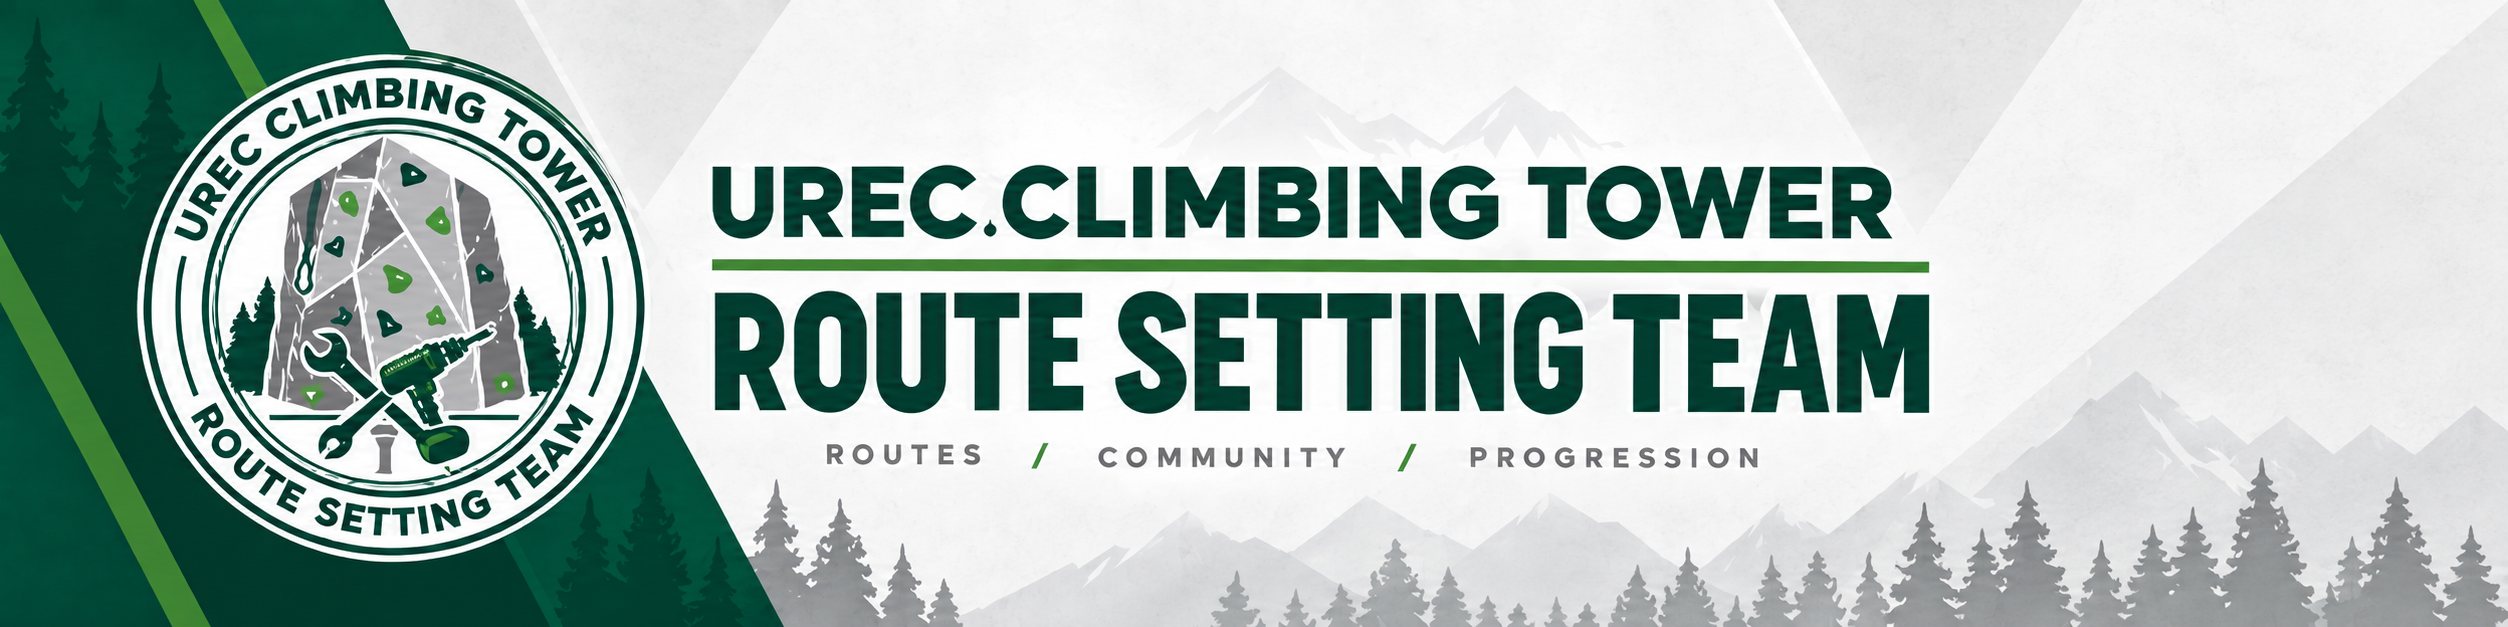
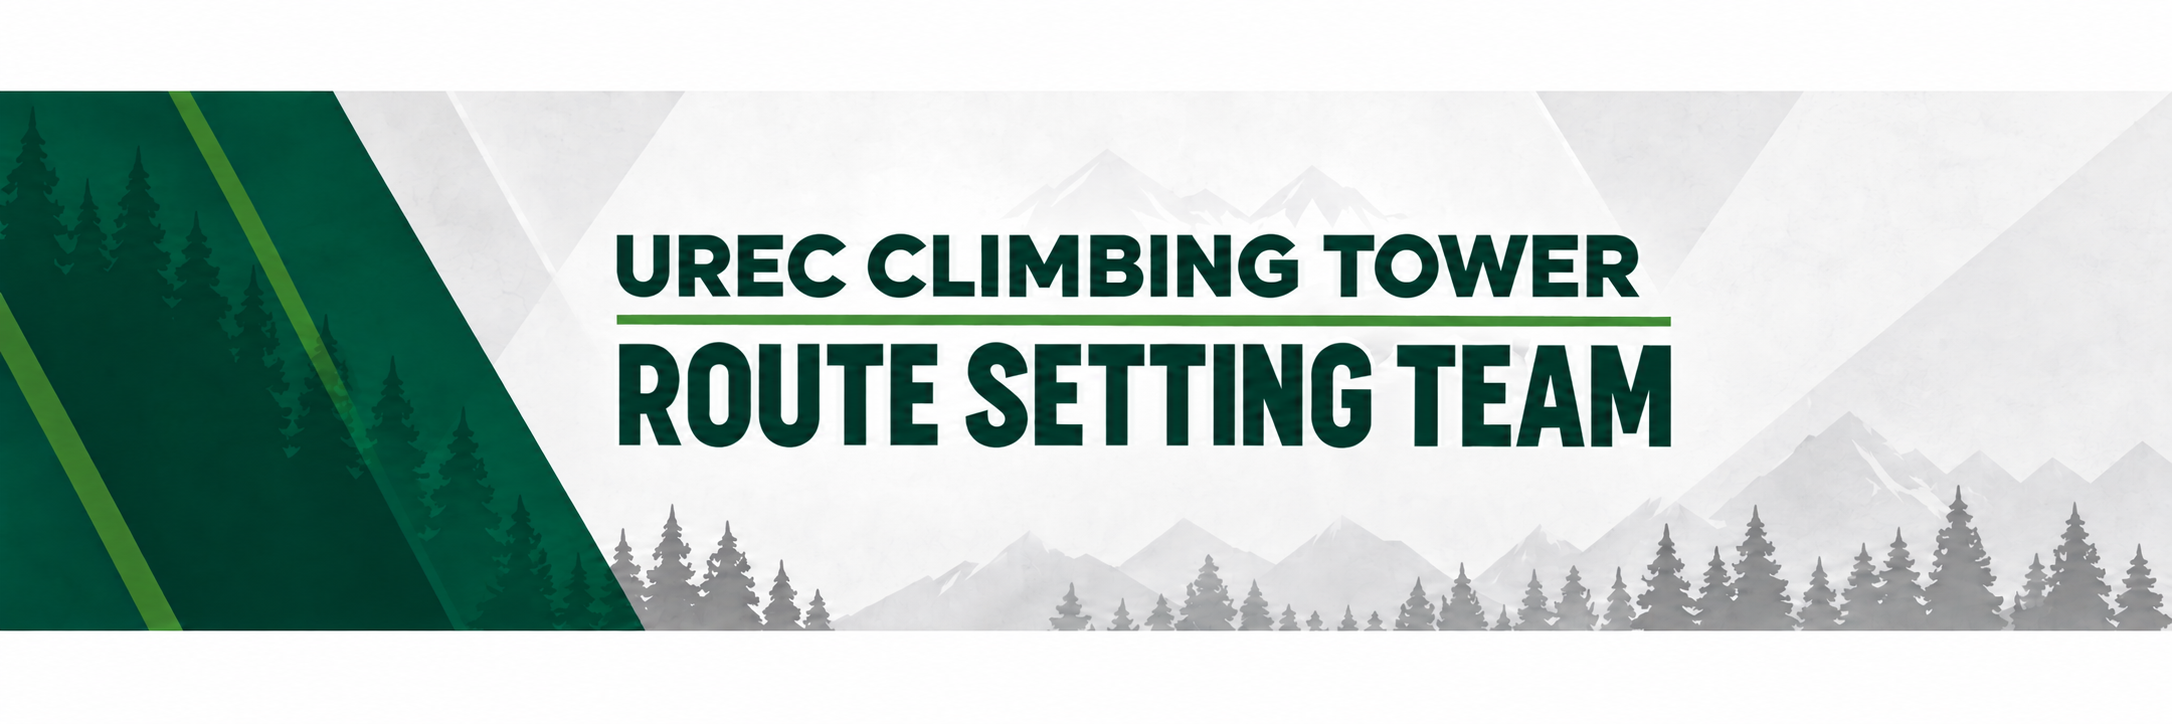
Rename UREC to Climbing Tower and update assets
Bump version to 1.0.3 and update UI/experience content. Replace two icon/banner image files, switch the Route Setter icon to Images/Icons/UREC_ICON.png, and update the ERT experience company and position strings in Scripts/experience.js. Adjust the index.html comment and change the experience section data-tab from "UREC" to "Climbing Tower". Files changed: Images/Banners/RouteSetter_BANNER.png, Images/Icons/UREC_ICON.png, Scripts/experience.js, index.html.

diff --git a/index.html b/index.html
@@ -1,8 +1,8 @@
 <!--
     PROJECT: Jack London Portfolio
-    VERSION: 1.0.2
+    VERSION: 1.0.3
     VERSION DATE: 9/19/2026
-    VERSION NAME: [Hello World("print")]
+    VERSION NAME: [ - 91939 - ]
 -->
 <!DOCTYPE html>
 <html lang="en">
@@ -869,13 +869,13 @@
 
 
                     <!-- =====================================
-                        UREC
+                        Climbing Tower
                         ===================================== -->
 
                     <section
                         class="page-section"
                         id="experience-urec"
-                        data-tab="UREC"
+                        data-tab="Climbing Tower"
                     >
 
                         <div

diff --git a/Scripts/experience.js b/Scripts/experience.js
@@ -148,7 +148,7 @@ const experiences = [
             "Route Setter — Climbing Tower",
 
         icon:
-            "Images/Icons/RouteSetters_ICON.png",
+            "Images/Icons/UREC_ICON.png",
 
         banner:
             "Images/Banners/RouteSetter_BANNER.png",
@@ -204,10 +204,10 @@ const experiences = [
             "experienceERT",
 
         company:
-            "UW–Green Bay Emergency Response Team",
+            "UW–Green Bay UREC",
 
         position:
-            "Emergency Response Team — Team Leader",
+            "Team Leader - Emergency Response Team",
 
         icon:
             "Images/Icons/ERT_ICON.png",
